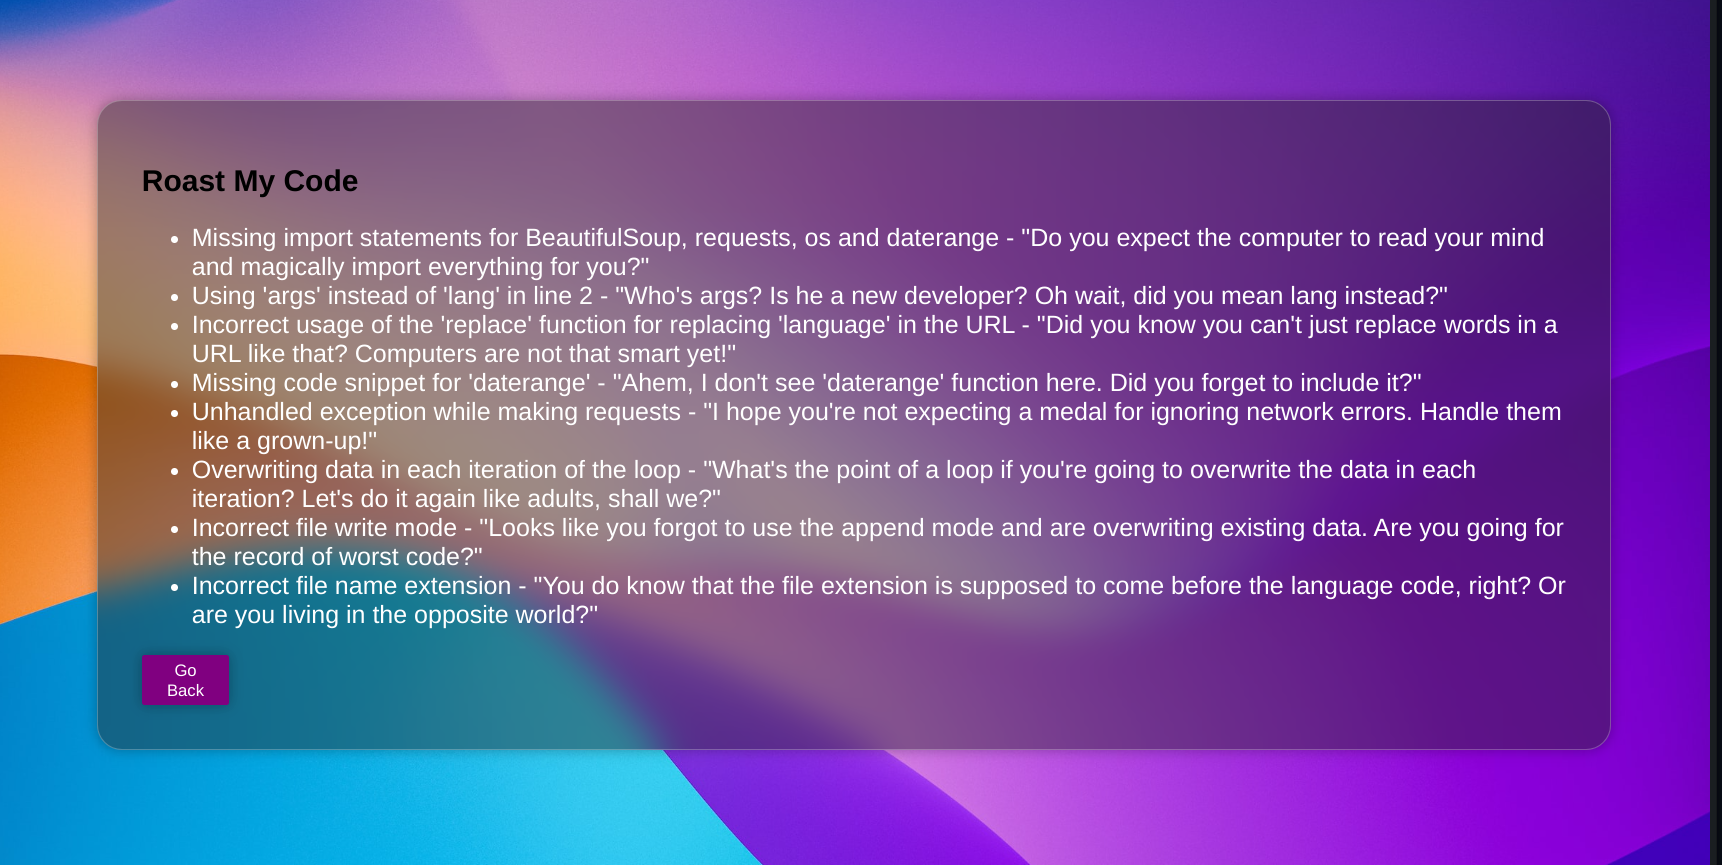
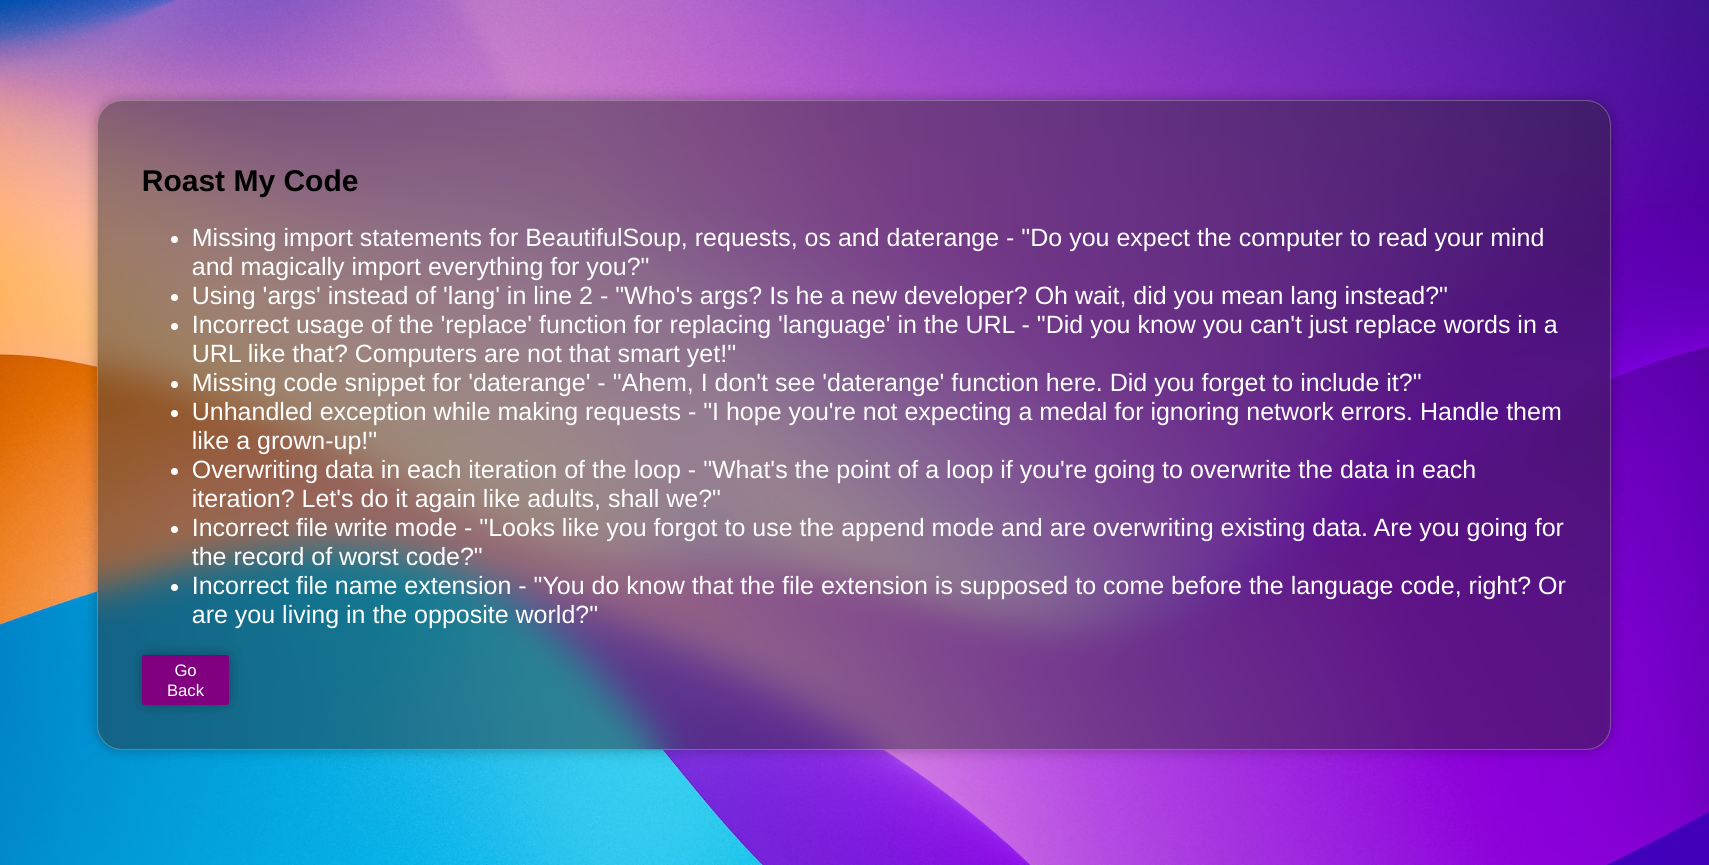
updated files

diff --git a/templates/index.html b/templates/index.html
@@ -14,33 +14,28 @@
     <form action="{{ url_for('index') }}" method="POST">
       <div class="output">
         {% if output %}
-        <ul>
-          {% for out in output %}
-          {% if out != '' %}
-          <li>{{ out }}</li>
-          {% endif %}
-          {% endfor %}
-        </ul>
-      </div>
-      
-
-      <!-- {{ output | safe}} -->
-
+          <ul>
+            {% for out in output %}
+              {% if out != '' %}
+                <li>{{ out }}</li>
+              {% endif %}
+            {% endfor %}
+          </ul>
+        </div>
       {% else %}
-      <textarea name="text" placeholder="Paste your code here to get roasted :)"></textarea>
+        <textarea name="text" placeholder="Paste your code here to get roasted :)"></textarea>
       {% endif %}
 
       {% if output %}
-      <a href="{{ url_for('index') }}">
-        <button id="button">Go Back</button>
-      </a>
+        <a href="{{ url_for('index') }}">
+          <button id="button">Go Back</button>
+        </a>
       {% else %}
-      <button id="button" type="submit">Submit</button>
+        <button id="button" type="submit">Roast Me!</button>
       {% endif %}
 
     </form>
   </div>
 
 </body>
-
 </html>
